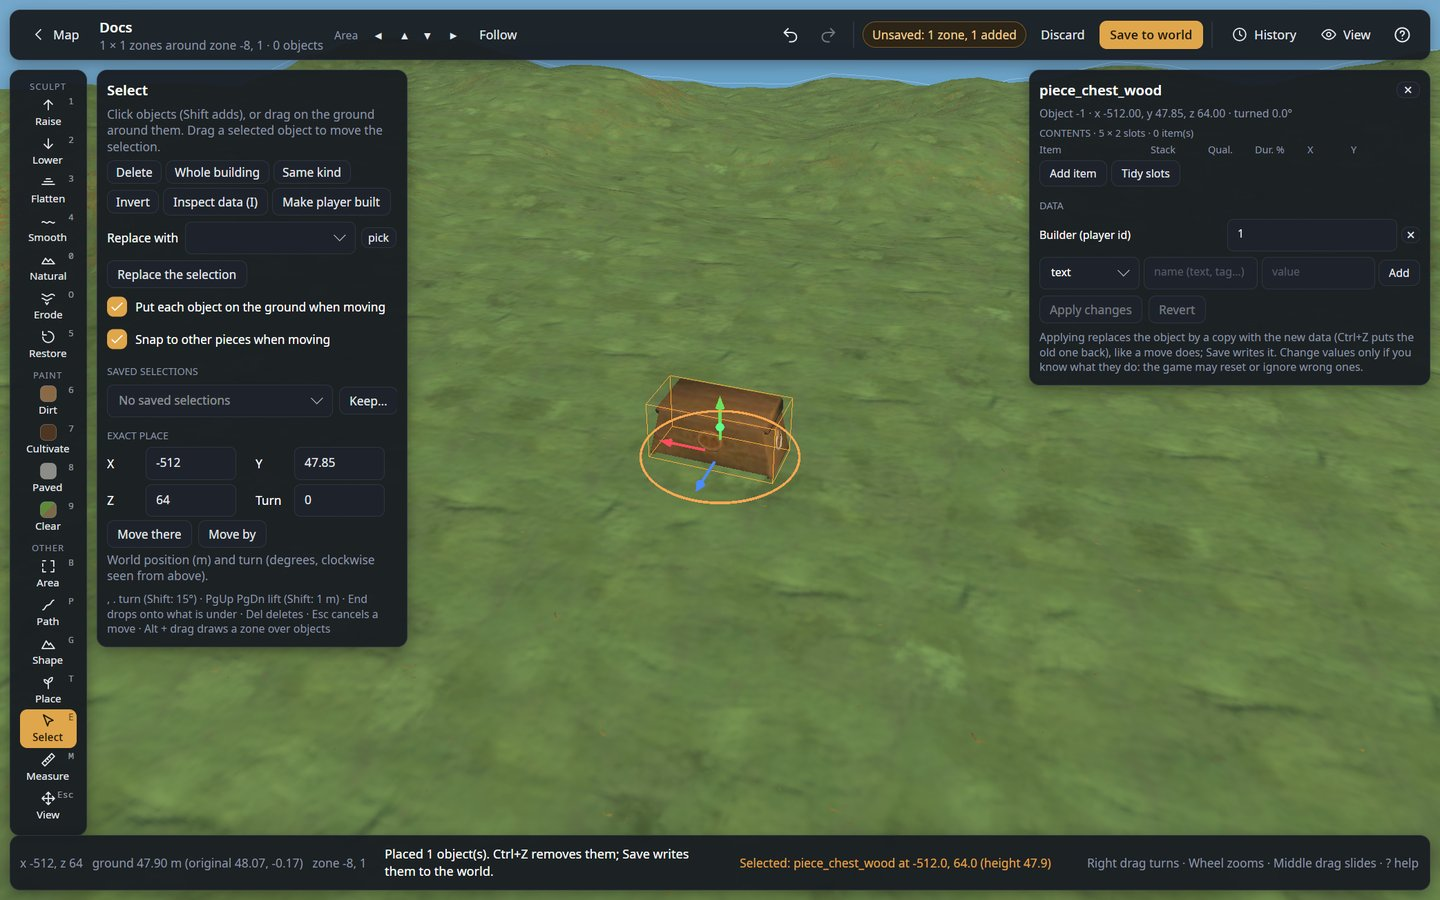
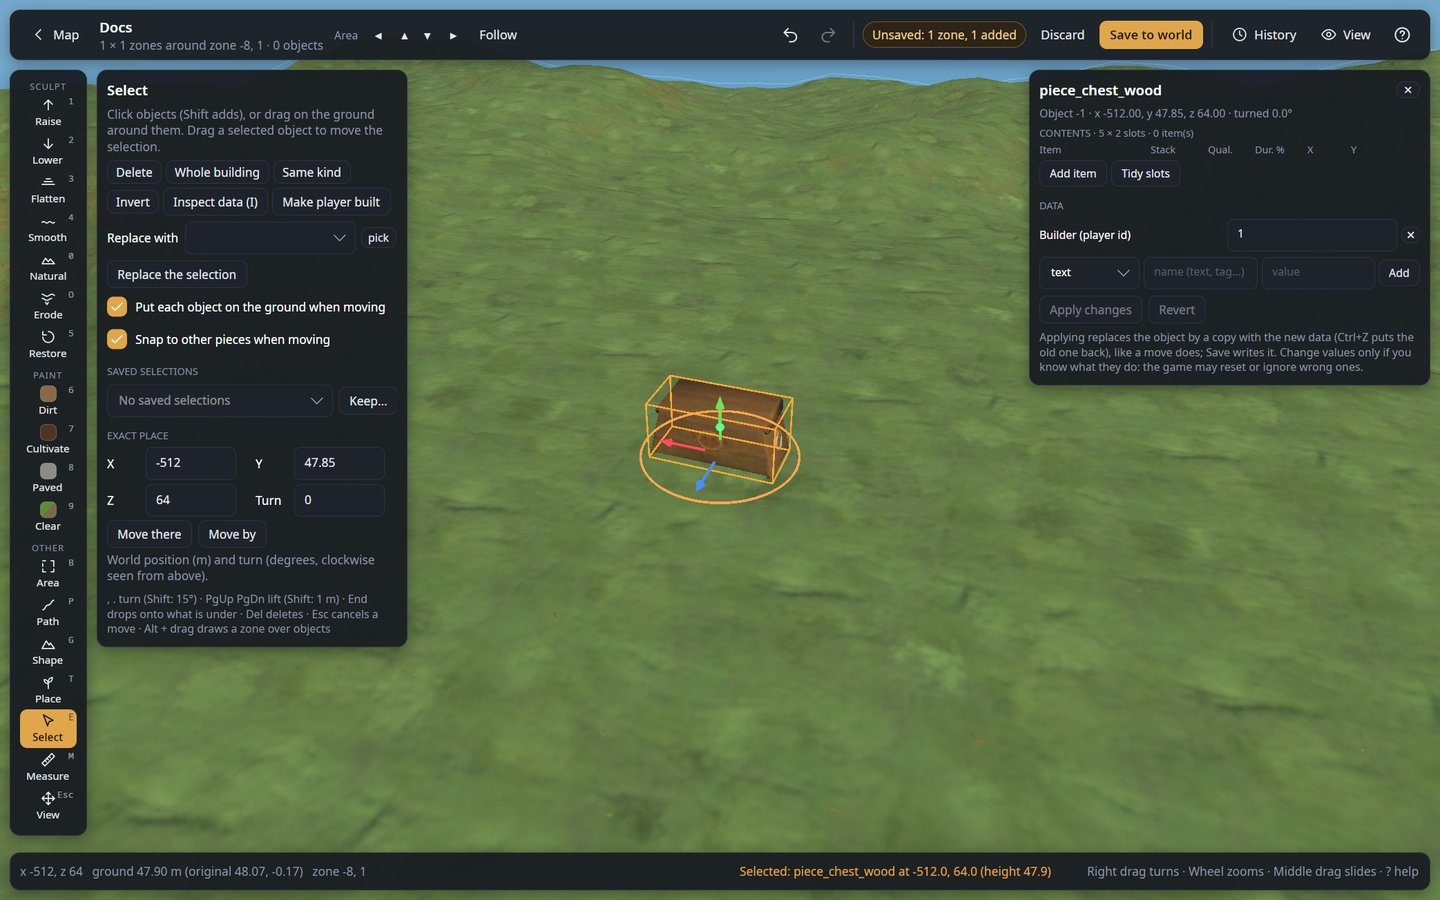
Docs: the new tool previews; pictures retaken with the wider lines
The Path, Select and Place pages describe what shows before a click; the sculpt scene waits a frame so its brush circle is in the picture.

Changed region(s): [[0.0, 0.9022, 1.0, 0.9956], [0.5, 0.4356, 0.5625, 0.5289], [0.4375, 0.4356, 0.5, 0.5289]]

diff --git a/tools/docs-screenshots/scenes.py b/tools/docs-screenshots/scenes.py
@@ -231,6 +231,8 @@ def scene_sculpt(e):
     e.send("set Size|7")
     move(e, P(7, -3))
     camera(e, 0, 0, 200, 38, 40)
+    # The brush's circle follows the pointer a frame later.
+    e.send("wait 300")
     e.shot(OUT / "sculpt.jpg")
 
 

diff --git a/CHANGELOG.md b/CHANGELOG.md
@@ -50,6 +50,10 @@ the plugin is unchanged in versions without that part.
 - Native app: new objects not saved (or applied) yet carry a green dot in the view.
 - Native app, View: **Unsaved marks** hides the green dots on new objects (remembered).
 - Native app, View: **Limit marks** hides the red on ground at the game's ±8 m limit (remembered).
+- Native app, Path: before a click, a circle under the cursor shows the path's width and soft edge,
+  and the stretch the next point adds; the ground the path covers is tinted.
+- Native app, Select: the object under the cursor is outlined faintly before a click picks it.
+- Native app, Place: the brush's outline shows under the cursor (Brush mode).
 - Native app: placing or pasting a kind switched off in View switches it on, and says so.
 - The developer checks of the world generator and the save writer (`--verify`, `--verify-ingame`,
   `--selftest-save`, `--inspect`, `--summary`) moved to a separate tool, `tools/WorldCheck`. It can
@@ -79,6 +83,8 @@ the plugin is unchanged in versions without that part.
 - Native app: folders under the home are shown as `~/…` everywhere (saving, backups, blueprints,
   Settings), so no user name is on screen.
 - Native app, Settings: the dialog is as tall as what it holds (it had a large empty part).
+- Native app: the tools' lines (brush circles, path, area, measure, selection boxes) broke into faint
+  dashes when the 3D view ran below the screen's resolution; they are now drawn a few pixels wide.
 
 ### Removed
 - The web editor (the page in a WebView2/WebKitGTK window or the browser): the native app replaces

diff --git a/docs/place.md b/docs/place.md
@@ -34,7 +34,7 @@ boxes in the preview.
 
 | Mode | How it works |
 |---|---|
-| **Brush** | The preview follows the cursor. A **click** places exactly what the preview shows; a **drag** keeps adding objects under the brush. **Shift + drag** removes the ticked kinds under the brush. |
+| **Brush** | The preview follows the cursor, inside the brush's outline. A **click** places exactly what the preview shows; a **drag** keeps adding objects under the brush. **Shift + drag** removes the ticked kinds under the brush. |
 | **Line** | Click points along a route (or hold and drag), or draw a **Circle** or a **Rectangle**. Objects go every *N* metres along it, or **end to end** like the game's hammer snaps them. |
 | **Grid** | Drag a box. One object goes in the middle of each cell; the box gets as many whole cells as fit best (at least one), centred in it. |
 | **Zone** | Click points around a zone (or hold and drag to draw it freely); it closes by itself. Drag a point to move it, drag the outline to add a point, **Ctrl + click** a point to remove it. Objects go at random spots inside it (**Density**, **Spacing**). |

diff --git a/docs/path.md b/docs/path.md
@@ -8,8 +8,10 @@ ditch, or a painted track.
 ## How to use it
 
 1. Choose **Path** (`P`).
-2. **Click points** along the route, or **hold and drag** to draw it freely. The red line is the
-   centre; the thin lines show the full width and the soft edges.
+2. **Click points** along the route, or **hold and drag** to draw it freely. Before you click, a
+   circle under the cursor shows the path's width (and a thinner one its soft edge), and once there
+   are points, the stretch the next click adds. The red line is the centre; the light band and its
+   edges show the full width, the thin outer lines the soft edges.
 3. **Fine-tune it**: drag a point (the dots on the line) to move it, drag the line between two points
    to add a point there and move it, **Ctrl + click** a point to remove it.
 4. Pick an **Action** and its settings.

diff --git a/docs/select.md b/docs/select.md
@@ -3,7 +3,7 @@
 ![A selected rock with its move arrows](images/select-arrows.jpg)
 
 Pick objects (trees, rocks, building pieces, anything shown), then move, turn, lift, drop, copy,
-replace or delete them. Only objects that are shown can be picked; switch kinds on in the
+replace or delete them. The object under the cursor is outlined faintly: that is the one a click picks. Only objects that are shown can be picked; switch kinds on in the
 [View panel](editor-basics.md#view-panel) first.
 
 ## Selecting

diff --git a/docs/masks.md b/docs/masks.md
@@ -1,6 +1,6 @@
 # Mask
 
-![The Mask limiting Lower to ground under 15°](images/mask.jpg)
+![The Mask limiting Raise to Meadows below 64 m and under 25°](images/mask.jpg)
 
 The Mask limits a tool to the ground that matches **all** of its settings, like WorldEdit masks or
 WorldPainter filters. It works with the ground brushes, Path, Shape, the Area tool's actions and Place.
